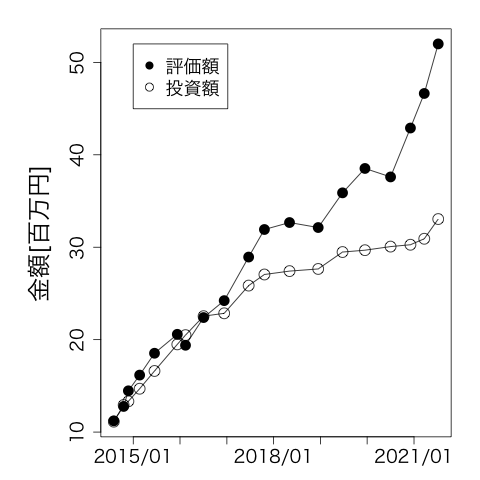
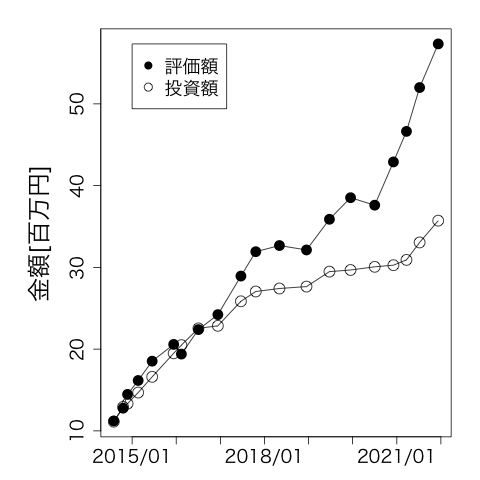
update

diff --git a/about.md b/about.md
@@ -134,7 +134,7 @@ permalink: /about/
 * 2015年1月 1,500万円 住宅ローン返済
   * 意外と団信が高いので
 
-## 子供NISA
+## ジュニアNISA
 
 ### 計画
 
@@ -157,10 +157,14 @@ permalink: /about/
   * こちらも、長期を視野に全て株にした。
   * 2018年1月～12月 全海外株式(野村つみたて外国株) 3万円, 日本株(野村つみたて日本株)3.3千円
   * 2019年1月～ eMAXIS Slim全世界株式(オールカントリー) 3.3万円
-* 2021年～2023年: + 40万円/年 x 1人(2人目の子供)
+* 2021年: 40万円/年(1人目の子供), 80万円/年(2人目の子供)  
   * 2023年で制度が終わり、それ以降は20歳まで非課税で運用出来るようなので、2人目の子供がフルの80万となるように追加
   * 1人目は、2016年からのものを一部(40万円程度)ロールオーバーして対応
   * 2人目の追加した分は、17歳から3年間、追加投資しないことで帳尻を合わせる予定(早めに投資しておき複利をとる)
+  * 2021年以降5年経過後にジュニアNISA特定口座に入ったものは、売却後、同じ口座で、eMAXIS Slim全世界株式(オールカントリー)を購入
+* 2022年～2023年: 80万円/年 x 2人
+  * 複利をとるために両方 80万円に
+
 
 ## リバランス
 

diff --git a/investment_return.md b/investment_return.md
@@ -31,3 +31,4 @@ permalink: /investment_return/
 12/4/2020|30,268,216|42,896,613|12,628,398|41.72%
 3/22/2021|30,914,682|46,634,966|15,720,284|50.85%
 7/9/2021|33,047,909|51,996,763|18,948,854|57.34%
+12/10/2021|35,714,074|57,333,260|21,619,186|60.53%
